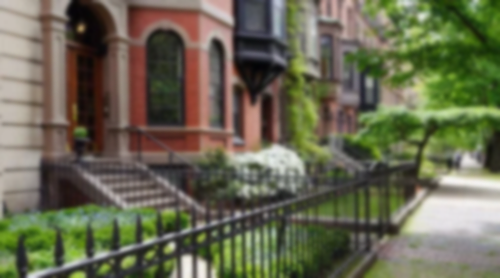
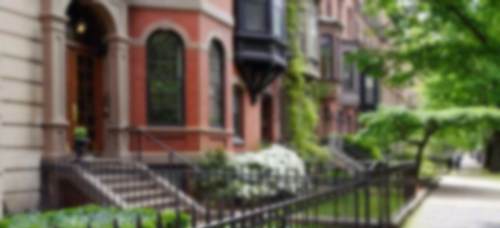
home page change

diff --git a/Final Project/style.css b/Final Project/style.css
@@ -52,13 +52,14 @@ html, body {
 	text-align: center;
 	padding: 10px;
 }
+
 /*  Header  */
 
 #header {
 	display: flex;
 	align-items: center;
 	justify-content: space-between;
-	padding: 5px 60px;
+	padding: 5px 100px;
 	background: #f9fcfd;
 	position: sticky;
 	top: 0;
@@ -106,7 +107,7 @@ html, body {
 
 #hero {
 	background-image: url('row-of-buildings.png');
-	height: 90vh;
+	height: 60vh;
 	width: 100%;
 	background-size: cover;
 	background-position: top 25% right 0;
